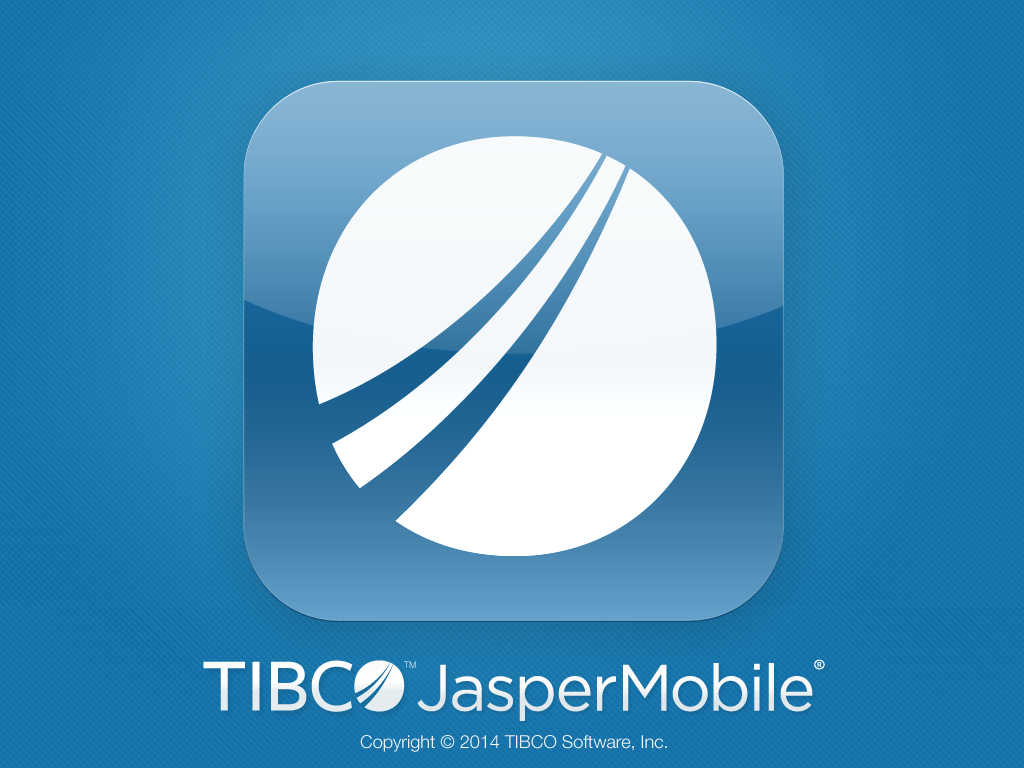
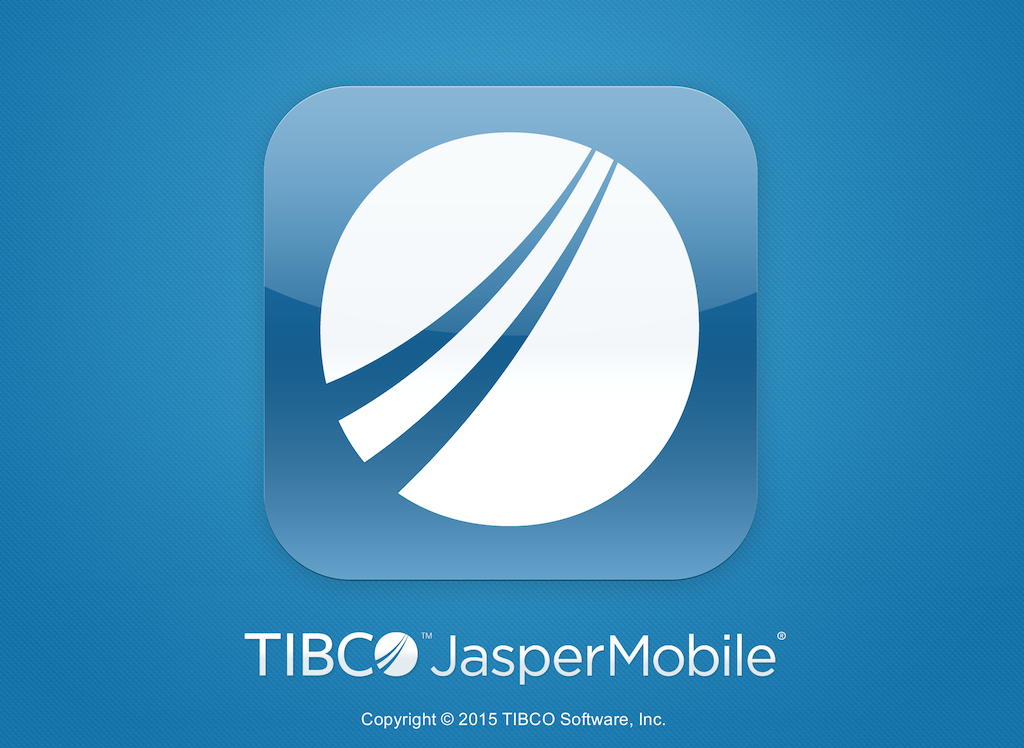
Update copyright year (JM-963, JM-951)

Changed region(s): [[0.1875, 0.0922, 0.8125, 0.984], [0.3125, 0.3075, 0.3438, 0.3997]]

diff --git a/JasperMobile/Sources/JMHomeCollectionViewController/Settings/JMSettingsViewController.m b/JasperMobile/Sources/JMHomeCollectionViewController/Settings/JMSettingsViewController.m
@@ -174,12 +174,21 @@
 - (void)applicationInfo:(id)sender
 {
     NSString *appName = [[NSBundle mainBundle].infoDictionary objectForKey:@"CFBundleDisplayName"];
-    NSString *message = [NSString stringWithFormat:JMCustomLocalizedString(@"servers.info", nil), appName, [JMAppUpdater latestAppVersionAsString], [JMServerProfile minSupportedServerVersion]];
+    
+    NSString *message = [NSString stringWithFormat:JMCustomLocalizedString(@"servers.info", nil), appName, [JMAppUpdater latestAppVersionAsString], [JMServerProfile minSupportedServerVersion], [self currentYear]];
     [[UIAlertView localizedAlertWithTitle:nil
                                   message:message
                                  delegate:nil
                         cancelButtonTitle:@"dialog.button.ok"
                         otherButtonTitles:nil] show];
+}
+
+- (NSString *)currentYear
+{
+    NSDateFormatter *formatter = [[NSDateFormatter alloc] init];
+    [formatter setDateFormat:@"yyyy"];
+    NSString *year = [formatter stringFromDate:[NSDate date]];
+    return year;
 }
 
 #pragma mark - 
